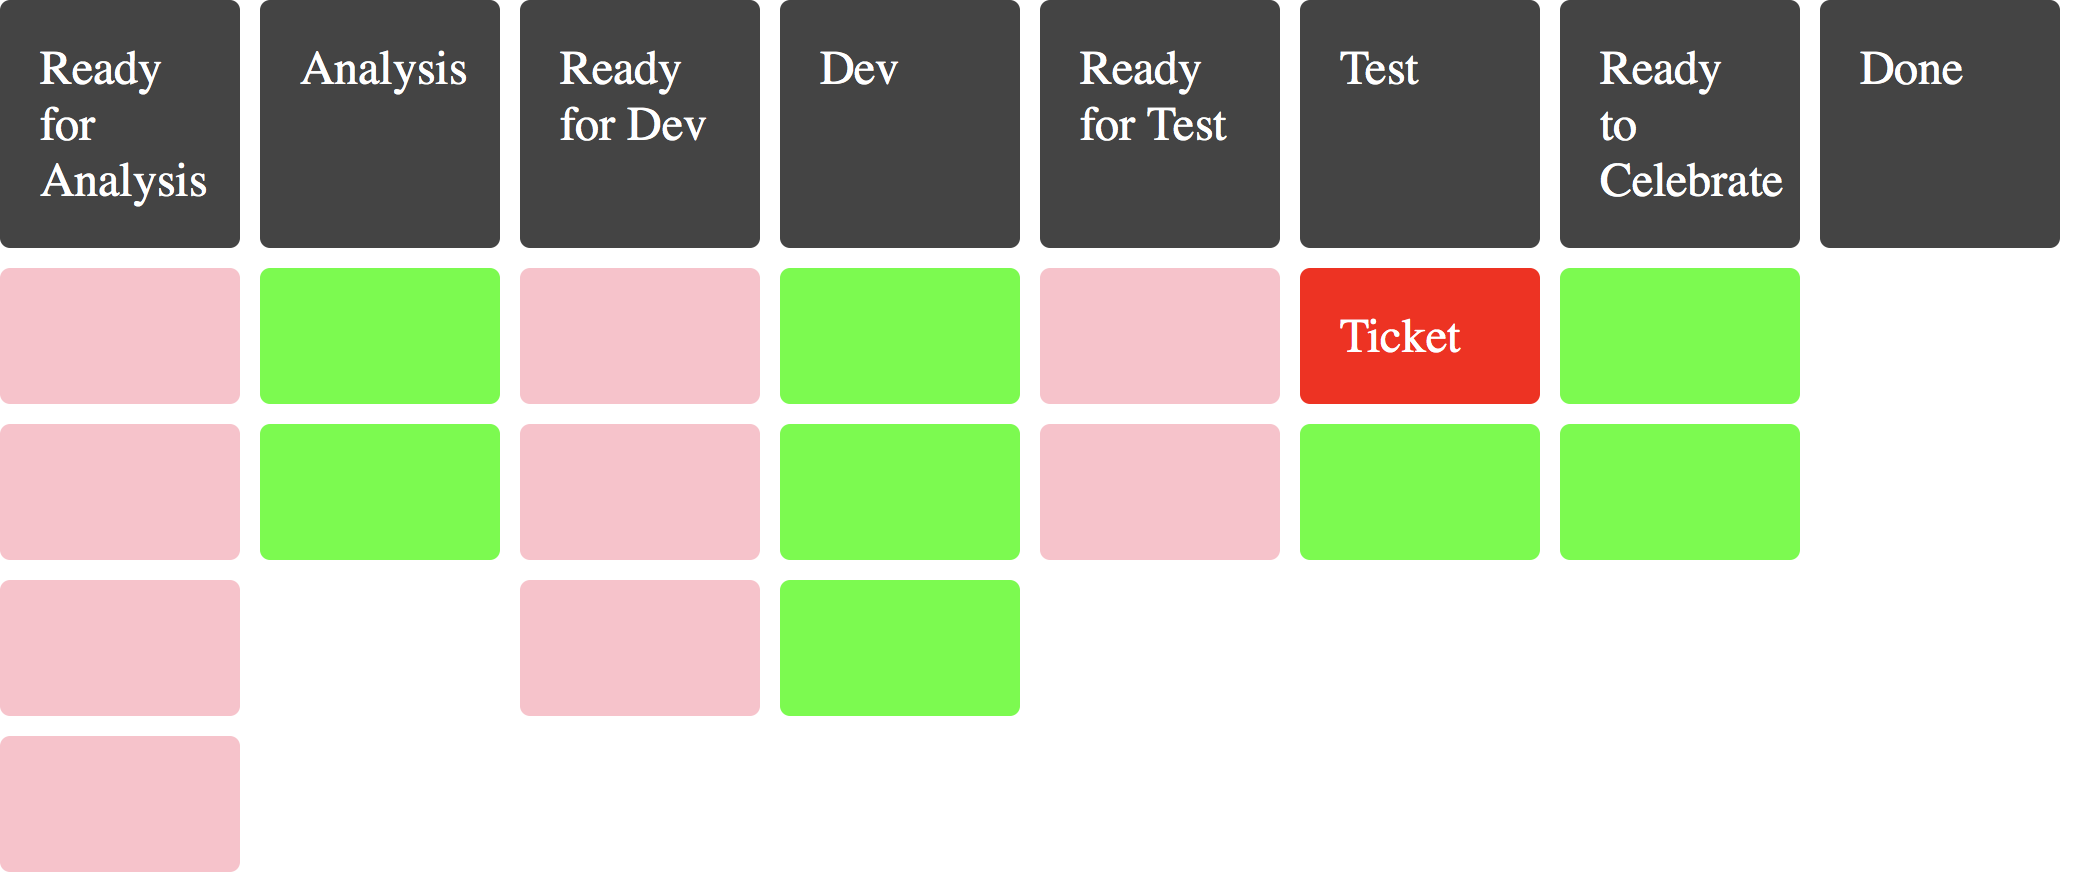
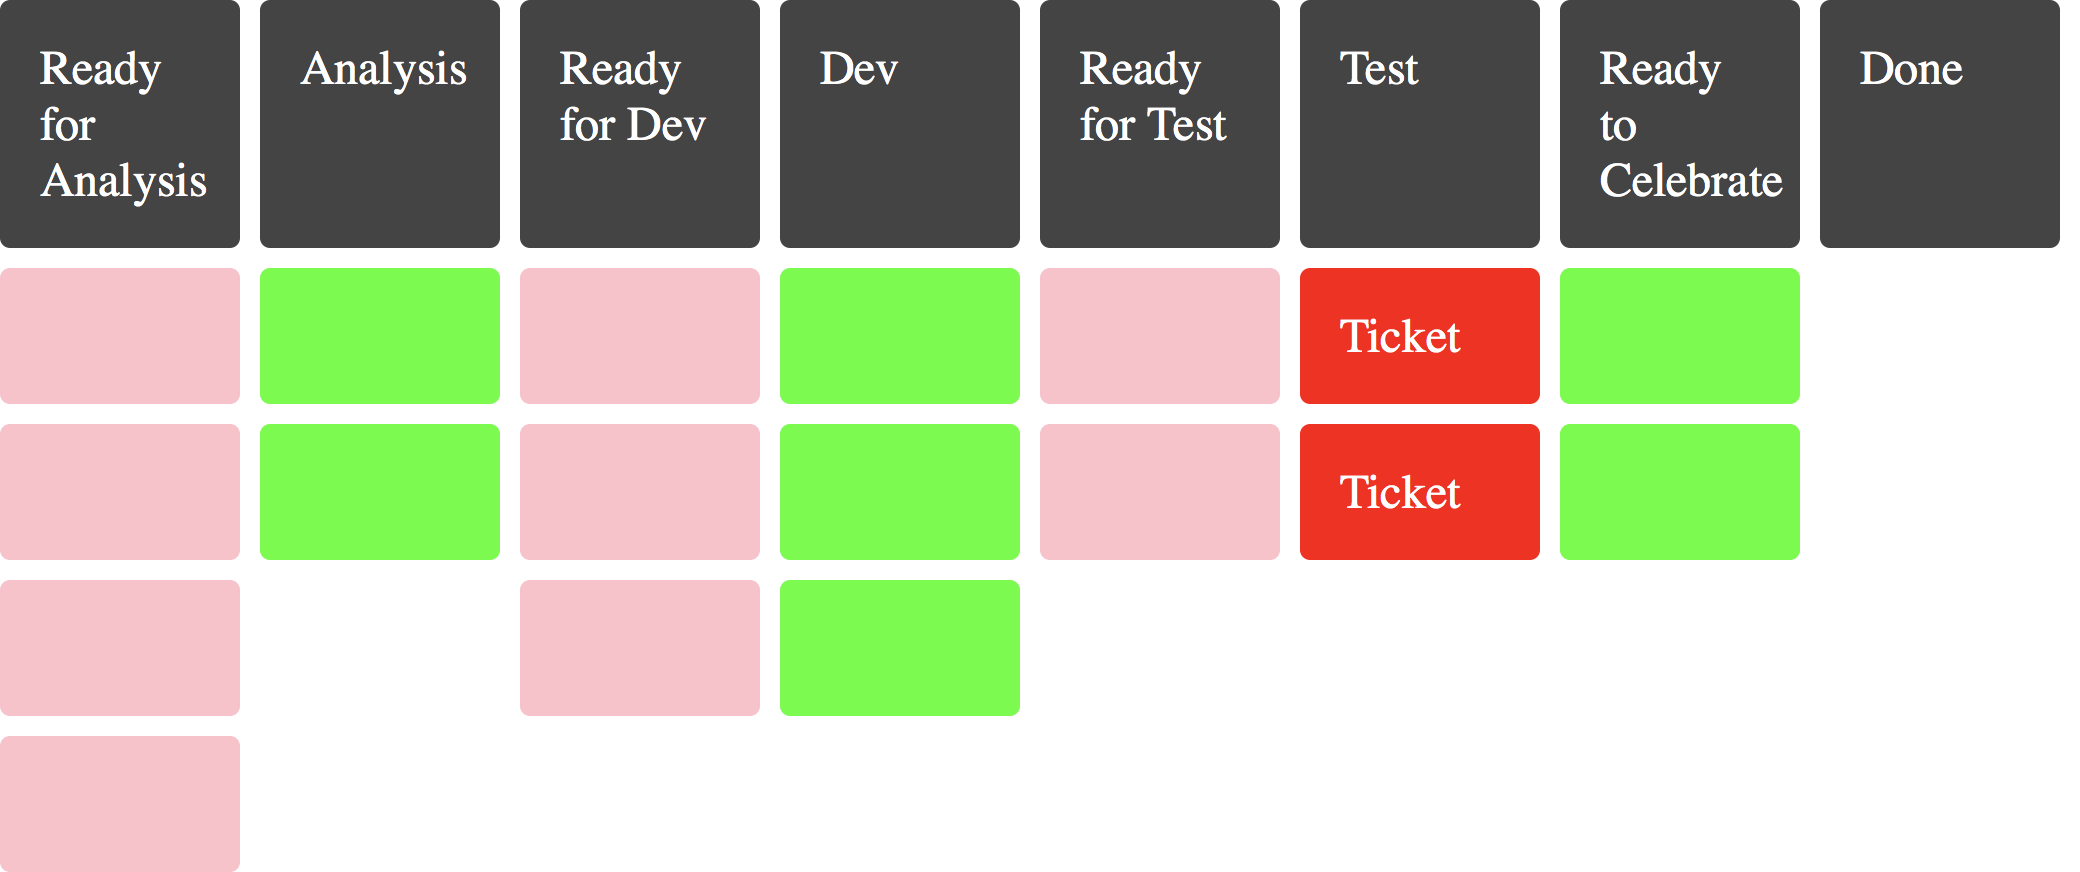
Yay! more boards and words

Changed region(s): [[0.625, 0.4644, 0.75, 0.6502]]

diff --git a/boards/exit-criteria.html b/boards/exit-criteria.html
@@ -6,7 +6,7 @@
   <style>
 
 .wrapper {
-      width: 1040px; /* hacky: 8 columns * (120px width + 10px gap) */
+      width: 1170px; /* hacky: 9 columns * (120px width + 10px gap) */
   }
 
   .col-ready-for-analysis {
@@ -15,23 +15,26 @@
   .col-analysis {
       grid-column: 2 ;
   }
-  .col-ready-for-dev {
-      grid-column: 3;
+  .col-three-amigos {
+      grid-column: 3 ;
   }
-  .col-dev {
+  .col-ready-for-dev {
       grid-column: 4;
   }
-  .col-ready-for-test {
+  .col-dev {
       grid-column: 5;
   }
-  .col-test {
+  .col-ready-for-test {
       grid-column: 6;
   }
-  .col-celebrate {
+  .col-test {
       grid-column: 7;
   }
-  .col-done {
+  .col-celebrate {
       grid-column: 8;
+  }
+  .col-done {
+      grid-column: 9;
   }
 
   .header {
@@ -65,6 +68,7 @@
     <!-- headings -->
     <div class="header col-ready-for-analysis">Ready for Analysis</div>
     <div class="header col-analysis">Analysis</div>
+    <div class="header col-three-amigos">Three Amigos</div>
     <div class="header col-ready-for-dev">Ready for Dev</div>
     <div class="header col-dev">Dev</div>
     <div class="header col-ready-for-test">Ready for Test</div>
@@ -77,24 +81,26 @@
     <div class="inactive-space col-ready-for-analysis work3">&nbsp;</div>
     <div class="inactive-space col-ready-for-analysis work4">&nbsp;</div>
 
-    <div class="active-space col-analysis work1">&nbsp;</div>
+    <div class="blocker col-analysis work1">Ticket</div>
     <div class="active-space col-analysis work2">&nbsp;</div>
+
+    <div class="active-space col-three-amigos work1">&nbsp;</div>
 
     <div class="inactive-space col-ready-for-dev work1">&nbsp;</div>
     <div class="inactive-space col-ready-for-dev work2">&nbsp;</div>
     <div class="inactive-space col-ready-for-dev work3">&nbsp;</div>
 
-    <div class="active-space col-dev work1">&nbsp;</div>
-    <div class="active-space col-dev work2">&nbsp;</div>
+    <div class="blocker col-dev work1">Ticket</div>
+    <div class="blocker col-dev work2">Ticket</div>
     <div class="active-space col-dev work3">&nbsp;</div>
 
     <div class="inactive-space col-ready-for-test work1">&nbsp;</div>
     <div class="inactive-space col-ready-for-test work2">&nbsp;</div>
 
     <div class="blocker col-test work1">Ticket</div>
-    <div class="blocker col-test work2">Ticket</div>
+    <div class="active-space col-test work2">&nbsp;</div>
 
-    <div class="active-space col-celebrate work1">&nbsp;</div>
+    <div class="ticket col-celebrate work1">&nbsp;</div>
     <div class="active-space col-celebrate work2">&nbsp;</div>
 
 

diff --git a/boards/unfinished-work-moving.html b/boards/unfinished-work-moving.html
@@ -6,7 +6,7 @@
   <style>
 
 .wrapper {
-      width: 1040px; /* hacky: 8 columns * (120px width + 10px gap) */
+      width: 1170px; /* hacky: 9 columns * (120px width + 10px gap) */
   }
 
   .col-ready-for-analysis {
@@ -15,23 +15,26 @@
   .col-analysis {
       grid-column: 2 ;
   }
-  .col-ready-for-dev {
-      grid-column: 3;
+  .col-three-amigos {
+      grid-column: 3 ;
   }
-  .col-dev {
+  .col-ready-for-dev {
       grid-column: 4;
   }
-  .col-ready-for-test {
+  .col-dev {
       grid-column: 5;
   }
-  .col-test {
+  .col-ready-for-test {
       grid-column: 6;
   }
-  .col-celebrate {
+  .col-test {
       grid-column: 7;
   }
-  .col-done {
+  .col-celebrate {
       grid-column: 8;
+  }
+  .col-done {
+      grid-column: 9;
   }
 
   .header {
@@ -65,6 +68,7 @@
     <!-- headings -->
     <div class="header col-ready-for-analysis">Ready for Analysis</div>
     <div class="header col-analysis">Analysis</div>
+    <div class="header col-three-amigos">Three Amigos</div>
     <div class="header col-ready-for-dev">Ready for Dev</div>
     <div class="header col-dev">Dev</div>
     <div class="header col-ready-for-test">Ready for Test</div>
@@ -77,24 +81,26 @@
     <div class="inactive-space col-ready-for-analysis work3">&nbsp;</div>
     <div class="inactive-space col-ready-for-analysis work4">&nbsp;</div>
 
-    <div class="active-space col-analysis work1">&nbsp;</div>
+    <div class="blocker col-analysis work1">Ticket</div>
     <div class="active-space col-analysis work2">&nbsp;</div>
+
+    <div class="active-space col-three-amigos work1">&nbsp;</div>
 
     <div class="inactive-space col-ready-for-dev work1">&nbsp;</div>
     <div class="inactive-space col-ready-for-dev work2">&nbsp;</div>
     <div class="inactive-space col-ready-for-dev work3">&nbsp;</div>
 
-    <div class="active-space col-dev work1">&nbsp;</div>
-    <div class="active-space col-dev work2">&nbsp;</div>
+    <div class="blocker col-dev work1">Ticket</div>
+    <div class="blocker col-dev work2">Ticket</div>
     <div class="active-space col-dev work3">&nbsp;</div>
 
     <div class="inactive-space col-ready-for-test work1">&nbsp;</div>
     <div class="inactive-space col-ready-for-test work2">&nbsp;</div>
 
     <div class="blocker col-test work1">Ticket</div>
-    <div class="blocker col-test work2">Ticket</div>
+    <div class="active-space col-test work2">&nbsp;</div>
 
-    <div class="active-space col-celebrate work1">&nbsp;</div>
+    <div class="ticket col-celebrate work1">&nbsp;</div>
     <div class="active-space col-celebrate work2">&nbsp;</div>
 
 

diff --git a/boards/three-amigos.html b/boards/three-amigos.html
@@ -6,7 +6,7 @@
   <style>
 
 .wrapper {
-      width: 1040px; /* hacky: 8 columns * (120px width + 10px gap) */
+      width: 1170px; /* hacky: 9 columns * (120px width + 10px gap) */
   }
 
   .col-ready-for-analysis {
@@ -15,23 +15,26 @@
   .col-analysis {
       grid-column: 2 ;
   }
-  .col-ready-for-dev {
-      grid-column: 3;
+  .col-three-amigos {
+      grid-column: 3 ;
   }
-  .col-dev {
+  .col-ready-for-dev {
       grid-column: 4;
   }
-  .col-ready-for-test {
+  .col-dev {
       grid-column: 5;
   }
-  .col-test {
+  .col-ready-for-test {
       grid-column: 6;
   }
-  .col-celebrate {
+  .col-test {
       grid-column: 7;
   }
-  .col-done {
+  .col-celebrate {
       grid-column: 8;
+  }
+  .col-done {
+      grid-column: 9;
   }
 
   .header {
@@ -65,6 +68,7 @@
     <!-- headings -->
     <div class="header col-ready-for-analysis">Ready for Analysis</div>
     <div class="header col-analysis">Analysis</div>
+    <div class="header col-three-amigos">Three Amigos</div>
     <div class="header col-ready-for-dev">Ready for Dev</div>
     <div class="header col-dev">Dev</div>
     <div class="header col-ready-for-test">Ready for Test</div>
@@ -80,6 +84,8 @@
     <div class="active-space col-analysis work1">&nbsp;</div>
     <div class="active-space col-analysis work2">&nbsp;</div>
 
+    <div class="active-space col-three-amigos work1">&nbsp;</div>
+
     <div class="inactive-space col-ready-for-dev work1">&nbsp;</div>
     <div class="inactive-space col-ready-for-dev work2">&nbsp;</div>
     <div class="inactive-space col-ready-for-dev work3">&nbsp;</div>
@@ -91,10 +97,10 @@
     <div class="inactive-space col-ready-for-test work1">&nbsp;</div>
     <div class="inactive-space col-ready-for-test work2">&nbsp;</div>
 
-    <div class="blocker col-test work1">Ticket</div>
-    <div class="blocker col-test work2">Ticket</div>
+    <div class="active-space col-test work1">&nbsp;</div>
+    <div class="active-space col-test work2">&nbsp;</div>
 
-    <div class="active-space col-celebrate work1">&nbsp;</div>
+    <div class="ticket col-celebrate work1">&nbsp;</div>
     <div class="active-space col-celebrate work2">&nbsp;</div>
 
 

diff --git a/boards/ready-to-celebrate.html b/boards/ready-to-celebrate.html
@@ -6,7 +6,7 @@
   <style>
 
 .wrapper {
-      width: 1040px; /* hacky: 7 columns * (120px width + 10px gap) */
+      width: 1040px; /* hacky: 8 columns * (120px width + 10px gap) */
   }
 
   .col-ready-for-analysis {

diff --git a/the-board-whisperer.md b/the-board-whisperer.md
@@ -93,9 +93,17 @@ you something useful.
 
 # Flow boards
 
-![original](images/splashing.jpg)
+![](images/splashing.jpg)
 
 ^ So am I talking about? Let's just say flow boards. Just a way of visualising the flow of work in order to learn some interesting things.
+
+---
+
+# "We Had A Conversation"
+
+![](images/rafting.jpg)
+
+^ Be prepared to hear this phrase a lot in this talk. Not to spoil anything but if your teams can gain any superpower it's that they'd do better having a whole lot more conversations. The work is NOT typing away frantically on our own; it's working as a team so we can all go collectively faster.
 
 
 ---
@@ -319,9 +327,9 @@ Or worse: when the tester said it didn't do X, Y, or Z, the response was the awf
 
 # Answer: Three Amigos
 
-## 🧐🤓😇
+![original](images/sparrows.jpg)
 
-^ TODO image: three amigos board!
+
 ^ The way we get passed this is by having conversations. You need some Three Amigos at the start. You can pick your methodology as you like but you can avoid these kinds of blockers by having a three-way conversation between a developer, tester, and product owner (or sometimes BA) upfront. Make sure everyone understood and could contribute to the shaping of a story ahead of time. This meant far fewer issues later.
 
 ---
@@ -337,12 +345,15 @@ Or worse: when the tester said it didn't do X, Y, or Z, the response was the awf
 
 # Useful signal: Three Amigos Bottleneck
 
-^ TODO image: three amigos board!
+![Inline fit](images/three-amigos-full.png)
+
 ^ It's also worth calling out a signal we were inserting into the board here: there is no queue column between Analysis and Three Amigos. We decided to make it explicit in our process that the conversation was important and should happen as a priority. Not being able to queue does that.
 
 ---
 
 # Useful signal: Three Amigos Bottleneck
+
+![Inline fit](images/three-amigos-full.png)
 
 ^ If something sits in Three Amigos for any length of time, the bottleneck forms and we see that communication isn't working the way we wanted. We have a conversation.
 
@@ -351,12 +362,15 @@ Or worse: when the tester said it didn't do X, Y, or Z, the response was the awf
 
 # ![inline fit](images/signal.png) Signal: "Unfinished" work moving
 
+![inline fit](images/unfinished-work-moving-full.png)
 
-^ TODO blockers
+^ A while later, we were spotting this pattern too frequently: blockers right the way across the board. Always in active columns. Why? It could be a few things, like external dependencies slowing things down, but we had a conversation.
+^ Depending on things like the complexity of the story, people had a varying view of what it meant to be done. Was development done when the code was done? Or when it was documented? Or when the build passed on a CI server?
+
 
 ---
 
-# Answer: Exit Criteria
+# Answer: Push Criteria
 
 * "All tests must pass"
 * "Code review must be complete, unless pairing"
@@ -369,10 +383,22 @@ For Dev, we have exit criteria like....
 
 ---
 
+# Answer: Pull Criteria
+
+* "Ready for Test -> Test: I've had a chat with the developer to learn about any issues"
+* "It's the highest value item in the column"
+
+^ There are other criteria for pulling items.
+
+
+---
+
 # Shared Ownership through Conversations
 
-^ TODO image: hmm... ownership? collaboration? conversation?
+![](images/hands.jpg)
+
 ^ Importantly, and predictably, how do we come up with exit criteria? We have a conversation. The team, as a whole, agrees on the criteria and enforces it collectively. Shared ownership through conversations. It's hard to feel like you own something if you didn't have input into the rules.
+^ That is, people are less likely to ignore them if they own them.
 
 ---
 
@@ -387,7 +413,6 @@ For Dev, we have exit criteria like....
 
 ![original](images/not-a-pipe.jpg)
 
-^ TODO write something about this painting
 ^ Oh, wait, What's this? Well, I guess I'll tell you a bit about this painting...
 ^ Called "The Treachery of Images" by René Magritte, a Belgian surrealist, about 10 years after the Georgia O'Keefe painting
 ^ Sometimes called "This Is Not A Pipe" because it's not a pipe. It's a drawing. The things we use are representative. They are not the things themselves.
